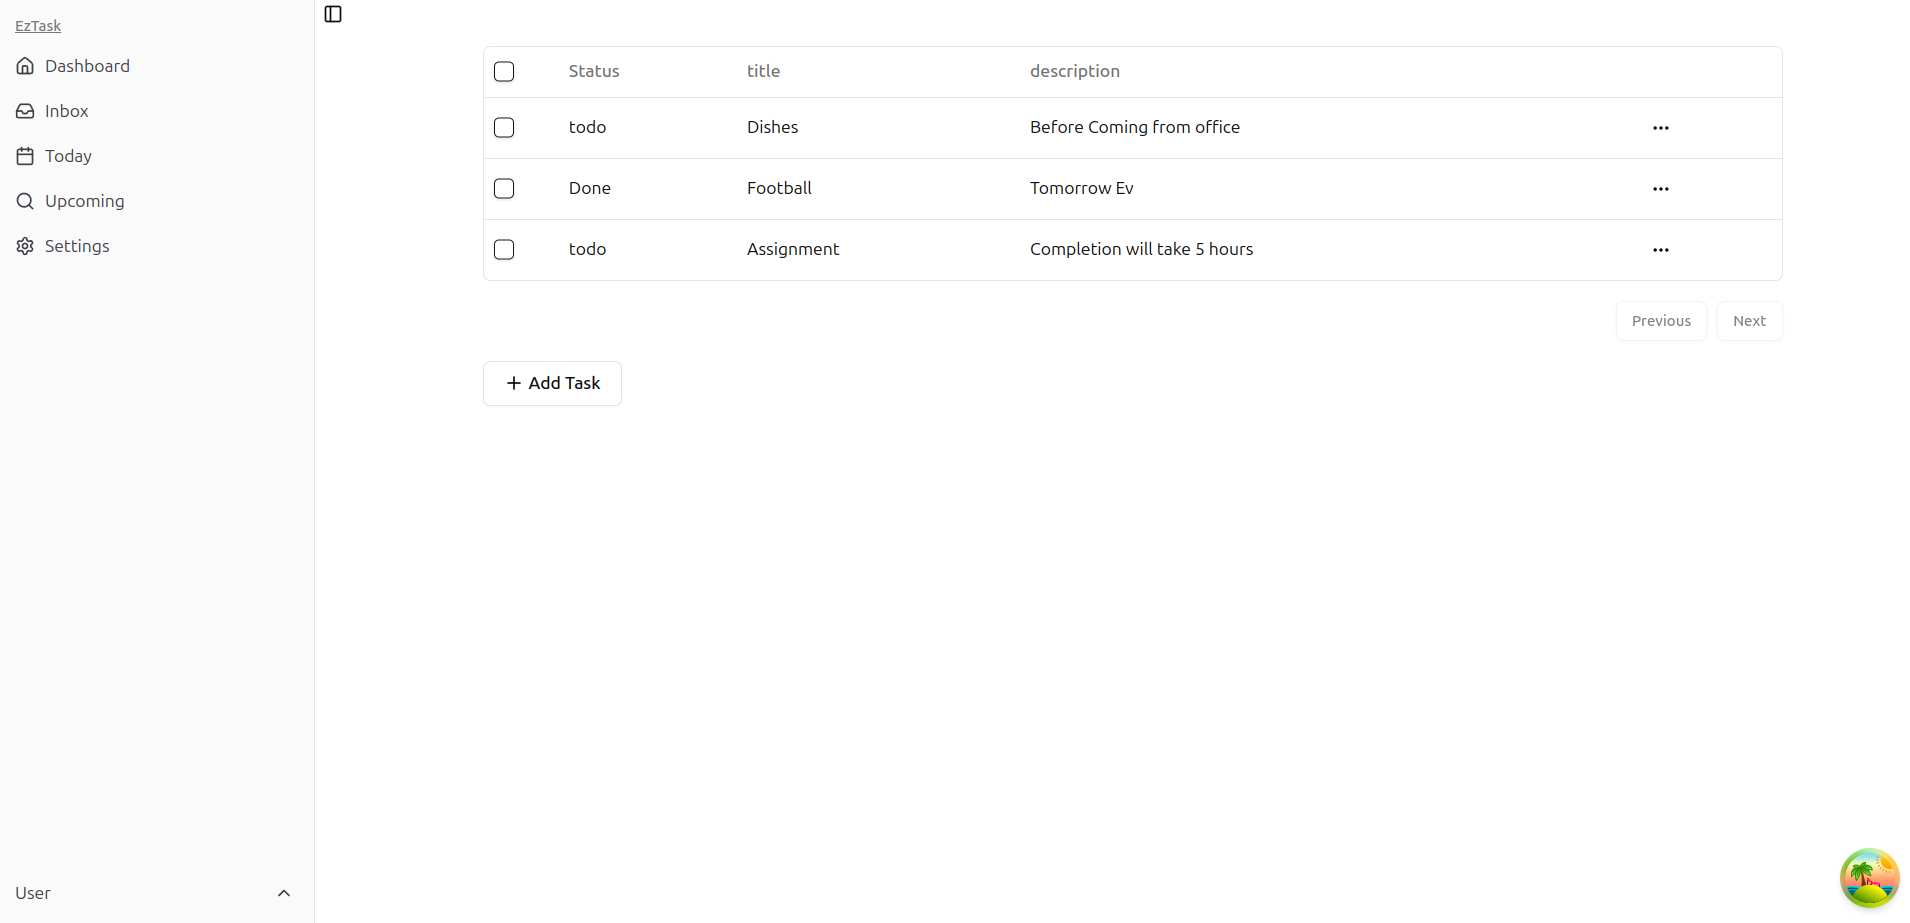
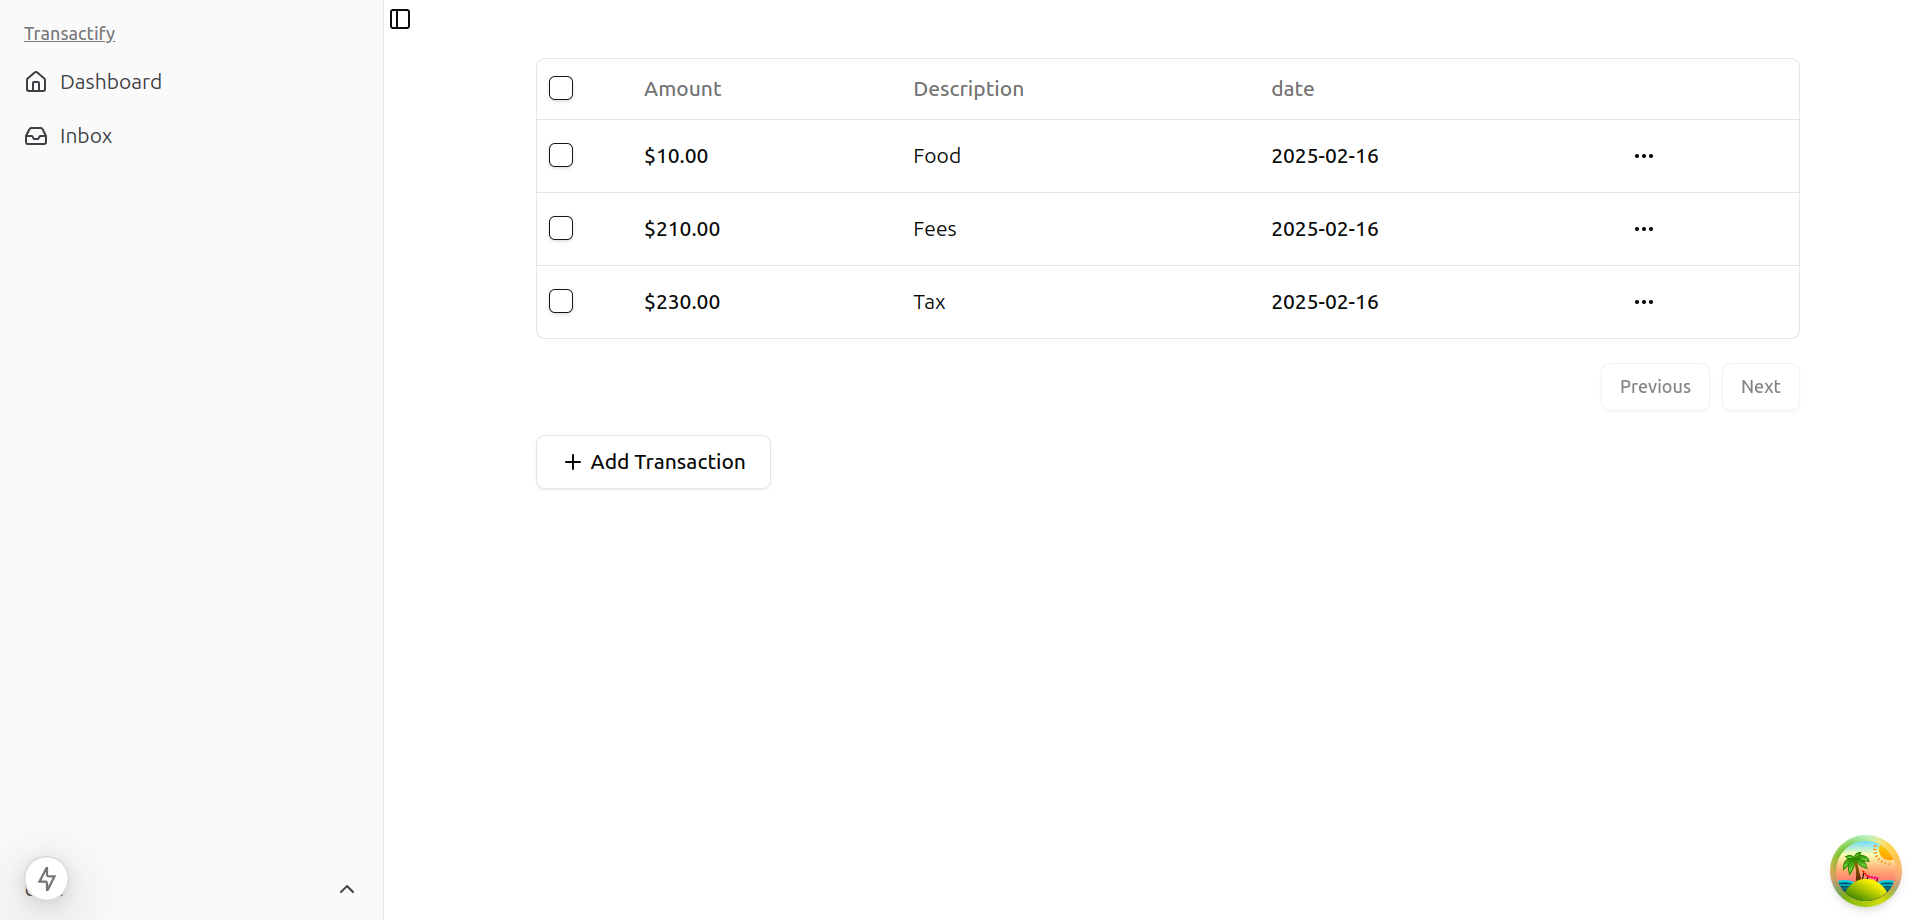
Stage 1 commit 4

diff --git a/src/app/home/dashboard/page.tsx b/src/app/home/dashboard/page.tsx
@@ -1,4 +1,5 @@
 "use client"
+const serverUrl = process.env.NEXT_PUBLIC_SERVER_URL;
 
 import { TrendingUp } from "lucide-react"
 import { Bar, BarChart, CartesianGrid, LabelList, XAxis } from "recharts"
@@ -19,77 +20,121 @@ import {
   ChartTooltip,
   ChartTooltipContent,
 } from "@/components/ui/chart"
-const chartData = [
-  { month: "January", desktop: 186 },
-  { month: "February", desktop: 305 },
-  { month: "March", desktop: 237 },
-  { month: "April", desktop: 73 },
-  { month: "May", desktop: 209 },
-  { month: "June", desktop: 214 },
-]
+import {dataTagErrorSymbol, useQuery } from "@tanstack/react-query"
+// will fetch from live user data 
+// const chartData = [
+//   { month: "January", transactions: 186 },
+//   { month: "February", transactions: 305 },
+//   { month: "March", transactions: 237 },
+//   { month: "April", transactions: 73 },
+//   { month: "May", transactions: 209 },
+//   { month: "June", transactions: 214 },
+// ]
+type Transaction = {
+  amount: number;
+  date: string;
+  description: string;
+  _id: string;
+};
 
-// const chartConfig = {
-//   desktop: {
-//     label: "Desktop",
-//     color: "hsl(var(--chart-1))",
-//   },
-// } satisfies ChartConfig
-// const chartConfig = {
-//   desktop: {
-//     label: "Desktop",
-//     icon: Monitor,
-//     // A color like 'hsl(220, 98%, 61%)' or 'var(--color-name)'
-//     color: "#2563eb",
-//     // OR a theme object with 'light' and 'dark' keys
-//     theme: {
-//       light: "#2563eb",
-//       dark: "#dc2626",
-//     },
-//   },
-// } satisfies ChartConfig
+type ChartData = {
+  month: string;
+  transactions: number;
+};
+
+function convertToMonthlyExpenses(transactions: Transaction[]): ChartData[] {
+  const monthMap = new Map<string, number>();
+
+  transactions.forEach(({ date, amount }) => {
+    const monthName = new Date(date).toLocaleString("en-US", { month: "long" });
+
+    // Add amount to the respective month's total
+    monthMap.set(monthName, (monthMap.get(monthName) || 0) + amount);
+  });
+
+  // Convert Map to an array of objects
+  return Array.from(monthMap, ([month, transactions]) => ({ month, transactions }));
+}
+
+// Example data
+const transactions: Transaction[] = [
+  { amount: 10, date: "2025-02-18T00:00:00.000Z", description: "Food", _id: "67b1de0d9e05d0f8579a12ea" },
+  { amount: 2, date: "2025-03-06T00:00:00", description: "sdsf", _id: "67b1e82779124f4a00c426f3" },
+  { amount: 2, date: "2025-02-25T00:00:00", description: "rrr", _id: "67b1e84979124f4a00c426f4" },
+  { amount: 20, date: "2025-02-26T00:00:00", description: "csdsd", _id: "67b1e96a79124f4a00c426f" },
+  { amount: 30, date: "2025-04-26T00:00:00", description: "csdsd", _id: "67b1e96a79124f4a00c426g" },
+];
+
+const chartData: ChartData[] = convertToMonthlyExpenses(transactions);
+console.log(chartData);
+
+
+
+
+async function fetchtransactions(){
+  const response = await fetch(`${serverUrl}/transactions`, {
+    method: "GET",
+    headers: {
+      "Content-Type": "application/json",
+    },
+    credentials: "include",
+  });
+  
+  if (!response.ok) {
+    throw new Error(`Failed to fetch transactions: ${response.statusText}`);
+  }
+  
+  const data = await response.json();
+  return data.transactions;
+}
 
 const chartConfig = {
-  desktop: {
+  transactions: {
     label: "Transactions: ",
     color: "#2563eb",
   },
 } satisfies ChartConfig
-  function RenderBarChart() {
+
+function RenderBarChart({data}:{data:any}) {
   return (
-    <Card className="mt-10">
+<Card  className="mt-10 ">
+      
       <CardHeader>
         <CardTitle>Monthly Transactions</CardTitle>
         <CardDescription>January - June 2024</CardDescription>
       </CardHeader>
-      <CardContent>
+      <CardContent className="">
 
-        <ChartContainer config={chartConfig}>
+        <ChartContainer  config={chartConfig} className="mt-5" >
           <BarChart
             accessibilityLayer
-            data={chartData}
+            data={convertToMonthlyExpenses(data)}
             margin={{
               top: 20,
             }}
           >
-            <CartesianGrid vertical={false} />
-            <ChartLegend content={<ChartLegendContent />} />
+            
             <XAxis
               dataKey="month"
               tickLine={false}
-              tickMargin={10}
+              tickMargin={12}
               axisLine={false}
-              tickFormatter={(value) => value.slice(0, 3)}
+              tickFormatter={(value) => value.slice(0,3)}
             />
+            <CartesianGrid vertical={true} />
+            {/* <ChartLegend content={<ChartLegendContent />} /> */}
+            
             <ChartTooltip
               cursor={false}
               content={<ChartTooltipContent hideLabel />}
             />
-            <Bar dataKey="desktop" fill="var(--color-desktop)" radius={8}>
+            <Bar   dataKey="transactions" fill="var(--color-transactions)" radius={8}>
               <LabelList
+                
                 position="top"
                 offset={12}
-                className="fill-foreground"
-                fontSize={12}
+                className="fill-foreground mt-5"
+                fontSize={10}
               />
             </Bar>
           </BarChart>
@@ -97,7 +142,7 @@ const chartConfig = {
       </CardContent>
       <CardFooter className="flex-col items-start gap-2 text-sm">
         <div className="flex gap-2 font-medium leading-none">
-          Transaction Frequency/Month <TrendingUp className="h-4 w-4" />
+           Expenses <TrendingUp className="h-4 w-4" />
         </div>
      
       </CardFooter>
@@ -106,9 +151,27 @@ const chartConfig = {
 }
 
 export default function RenderDashboard(){
+  console.log('fetching..');
+  const { data, isLoading } = useQuery({
+    refetchOnMount : false,
+    queryKey: ["transactions"],
+    queryFn: fetchtransactions, 
+    staleTime: 60*30*1000, 
+  });
+  
+
+  if(isLoading){
+    return(
+      <div>
+        Loading..
+      </div>
+    )
+  }
+
+   console.log(data)
   return(
-    <div>
-      <RenderBarChart/>
+    <div >
+      <RenderBarChart data={data}/>
     </div>
   )
 }

diff --git a/src/app/home/inbox/components/editform.tsx b/src/app/home/inbox/components/editform.tsx
@@ -20,7 +20,7 @@ const formSchema = z.object({
   description: z
     .string()
     .min(2, { message: "Description must be at least 2 characters." }),
-    date: z.string(),
+    date: z.date(),
 
 })
 
@@ -90,6 +90,26 @@ export function EditForm({ transaction, closeModal }: any){
               <FormLabel>Description</FormLabel>
               <FormControl>
                 <Input placeholder="Enter description" {...field} />
+              </FormControl>
+              <FormMessage />
+            </FormItem>
+          )}
+        />
+           <FormField
+          control={form.control}
+          name="date"
+          render={({ field }) => (
+            <FormItem>
+              <FormLabel>date</FormLabel>
+              <FormControl>
+              <Input
+                type="date"
+                placeholder="Enter date"
+                {...field}
+                value={field.value instanceof Date ? field.value.toISOString().split("T")[0] : ""}
+                onChange={(e) => field.onChange(e.target.value ? new Date(e.target.value) : null)}
+              />
+
               </FormControl>
               <FormMessage />
             </FormItem>

diff --git a/src/app/home/inbox/components/inputform.tsx b/src/app/home/inbox/components/inputform.tsx
@@ -92,6 +92,19 @@ export function TaskForm({ closeModal }: InputFormProps) {
             </FormItem>
           )}
         />
+            <FormField
+          control={form.control}
+          name="date"
+          render={({ field }) => (
+            <FormItem>
+              <FormLabel>date</FormLabel>
+              <FormControl>
+                <Input type="date" placeholder="date" {...field} />
+              </FormControl>
+              <FormMessage />
+            </FormItem>
+          )}
+        />
         <Button type="submit">Submit</Button>
       </form>
     </Form>

diff --git a/src/app/home/inbox/page.js b/src/app/home/inbox/page.js
@@ -9,6 +9,7 @@ import "./components/data";
 const serverUrl = process.env.NEXT_PUBLIC_SERVER_URL;
 console.log(serverUrl);
 async function fetchtransactions(){
+  console.log('fetching from inbox')
   const response = await fetch(`${serverUrl}/transactions`, {
     method: "GET",
     headers: {
@@ -29,6 +30,7 @@ export default function DemoPage() {
   const { data: taskData, error, isLoading } = useQuery({
     queryKey: ["transactions"],
     queryFn: fetchtransactions,
+    staleTime : 1000*60*30,
   });
   const queryClient = useQueryClient();
   

diff --git a/src/sections/ProductShowcase.tsx b/src/sections/ProductShowcase.tsx
@@ -27,10 +27,10 @@ export const ProductShowcase = () => {
             <div className="tag">Boost your productivity</div>
           </div>
           <h2 className="section-title mt-5">
-            A more effective way to track your tasks
+            A more effective way to track your payments
           </h2>
           <p className="section-description mt-5">
-            Effortlessly create tasks and manage them.
+            Effortlessly create transactions.
           </p>
         </div>
         <div className="relative">

diff --git a/src/sections/Footer.tsx b/src/sections/Footer.tsx
@@ -15,7 +15,7 @@ export const Footer = () => {
           <Image src={logo} height={40} alt="SaaS logo" className="relative" />
         </div>
     
-        <p className="mt-6">&copy; 2025 EzTask, Inc. All rights reserved.
+        <p className="mt-6">&copy; 2025 Transactify, Inc. All rights reserved.
           <br /><Link className="hover:text-white transition-all" href="https://github.com/vishesh-1111">Make with ❤ by Vishesh</Link>
         </p>
       </div>

diff --git a/src/components/ui/app-siderbar.tsx b/src/components/ui/app-siderbar.tsx
@@ -69,7 +69,7 @@ export function AppSidebar() {
     <Sidebar side="left" variant="sidebar" collapsible="icon">
       <SidebarContent>
         <SidebarGroup>
-          <SidebarGroupLabel className="underline">EzTask</SidebarGroupLabel>
+          <SidebarGroupLabel className="underline">Transactify</SidebarGroupLabel>
           <SidebarGroupContent>
             <SidebarMenu>
               {items.map((item) => (

diff --git a/src/sections/Header.tsx b/src/sections/Header.tsx
@@ -10,7 +10,7 @@ export const Header = () => {
         <p className="text-white/60 hidden md:block">Streamline your payments and boost your savings</p>
         <div className="inline-flex gap-1 items-center">
           <Link
-          href={'/login'}
+          href={'/home'}
           >
           <p>Get started for free</p>
           </Link>

diff --git a/src/app/home/inbox/columns.tsx b/src/app/home/inbox/columns.tsx
@@ -19,7 +19,7 @@ const serverUrl = process.env.NEXT_PUBLIC_SERVER_URL;
 export type Task = {
   amount: Number
   description: string
-  data: string
+  date:string
   _id : string
 }
 

diff --git a/backend/main.py b/backend/main.py
@@ -35,7 +35,7 @@ client = AsyncIOMotorClient(database_url);
 db = client["db31"]
 transaction_collection = db["transactions"]
 
-
+# print(database_url)
 
 class TransactionPostRequest(BaseModel):
     amount : float
@@ -45,6 +45,7 @@ class TransactionPostRequest(BaseModel):
 class TransactionPutRequest(BaseModel):
     amount : float
     description : str 
+    date :str
 
 @app.post("/transactions")
 async def login(request: Request,transaction_data: TransactionPostRequest,response: Response):
@@ -88,7 +89,8 @@ async def update_transactions(transaction_id: str, transaction_data: Transaction
     await transaction_collection.update_one(
         {"_id": ObjectId(transaction_id)},
         {"$set": {"amount": transaction_data.amount, 
-                  "description": transaction_data.description}}
+                  "description": transaction_data.description,
+                    "date":transaction_data.date}}
     )
     return {"message": "Transaction updated successfully"}
 
